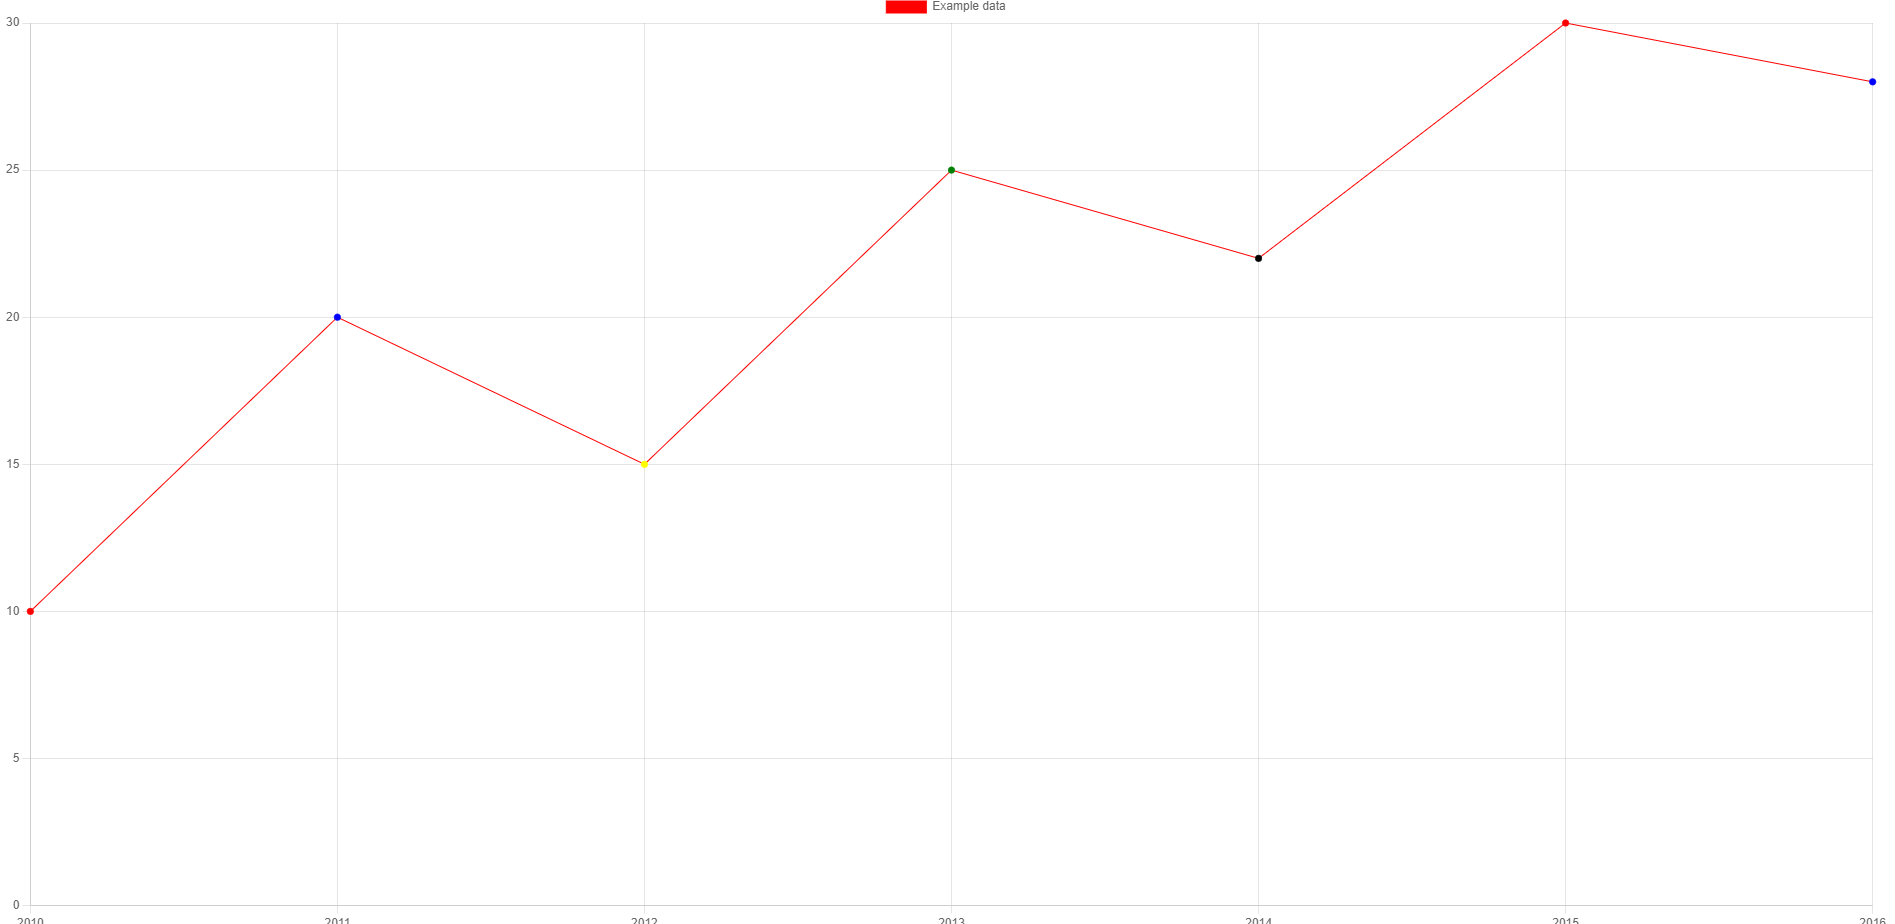
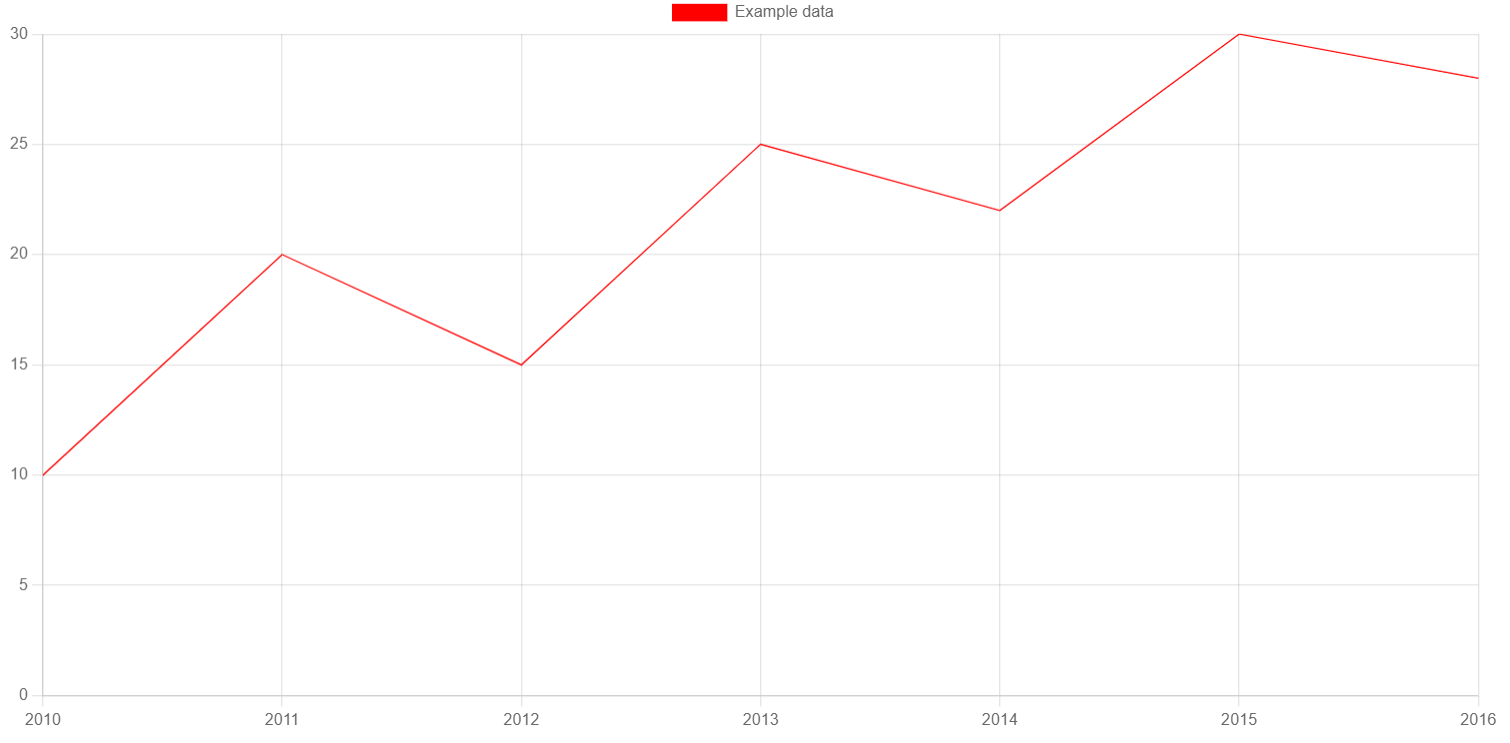
Add files via upload

diff --git a/Client/script.js b/Client/script.js
@@ -460,27 +460,14 @@ let timeDelay = 0;
 let repeatQuantity = 0;
 function movePlayableNotes(staffNumber,notePressed,octave){
     if(toggle){
-        if(a<1000){
-            a++;
-        }
-        if(a>20 && a<1000){
-            var thisloop = performance.now();
-            var fps = Math.round(1000/(thisloop-lastloop));
-            averageFPS = averageFPS+fps;
-            lastloop = thisloop;
-        }
-        if(a>100){
-            if(toggle){
-                timeDelay = (window.innerWidth-(leftBoundary-(0.5*staffSpacing))/(averageFPS/a)*1000)/DynamicDifficulty[difficultyLevel].speed;
-            }
-            else{
-                timeDelay = 0;
-            }
-            ctx.fillStyle = "white";
-            ctx.fillRect(leftBoundary,0,canvas.width,staffHeight);
-            staffNoteHit(staffNumber,notePressed,octave);
-            drawStaff();
-        }
+        a++
+        averageFPS = (61214/1000)+513;
+        timeDelay = (DynamicDifficulty[difficultyLevel].recurringNotes)*(window.innerWidth-(leftBoundary-(0.5*staffSpacing))/(averageFPS)*100)/DynamicDifficulty[difficultyLevel].speed;
+      
+        ctx.fillStyle = "white";
+        ctx.fillRect(leftBoundary,0,canvas.width,staffHeight);
+        staffNoteHit(staffNumber,notePressed,octave);
+        drawStaff();    
         // updates x and y values and then displays them whilst removing the old values from visibility
 
         switch(DynamicDifficulty[difficultyLevel].recurringNotes){
@@ -488,16 +475,16 @@ function movePlayableNotes(staffNumber,notePressed,octave){
                 animating_Notes1.update();
                 animating_Notes1.display();
                 setTimeout((s) => animating_Notes5.update(), 4*timeDelay);
-                animating_Notes5.display();
+                animating_Notes5.display()
                 break;
             case 4:
                 animating_Notes1.update();
                 animating_Notes1.display();
                 setTimeout((s) => animating_Notes3.update(), 2*timeDelay);
                 animating_Notes3.display();
-                setTimeout((s) => animating_Notes5.update(), 4*timeDelay);
+                setTimeout((s) => animating_Notes5.update(), timeDelay);
                 animating_Notes5.display();
-                setTimeout((s) => animating_Notes7.update(), 6*timeDelay);
+                setTimeout((s) => animating_Notes7.update(), 3*timeDelay);
                 animating_Notes7.display();
                 break;
             case 8:

diff --git a/Client/arrangeData.js b/Client/arrangeData.js
@@ -53,14 +53,17 @@ function retrieveNoteCodes(individualNotes){
     }
 }
 
+let totalLength = 0;
 let playPeriodNotes = [];
 function retrievePlaytimePeriods(allData){
     for(let storageLength = 0; storageLength < localStorage.length; storageLength++){
+        totalLength = 0;
         if(allData[storageLength] != null){
             playPeriodNotes[storageLength] = {};
             for(let levelNumber = 1; levelNumber <= Object.keys(allData[storageLength]).length; levelNumber++){
                 for(let noteNumber = 1; noteNumber < Object.keys(allData[storageLength][levelNumber].userNoteProgression).length+1; noteNumber++){
-                        playPeriodNotes[storageLength][noteNumber] = allData[storageLength][levelNumber].userNoteProgression[noteNumber];
+                    totalLength ++;
+                    playPeriodNotes[storageLength][totalLength] = allData[storageLength][levelNumber].userNoteProgression[noteNumber];
                 }
             }
         }
@@ -97,3 +100,10 @@ function retrieveNoteCodesFromPeriods(playPeriodNotes){
         playPeriodCodes[numberOfPeriods] = [numOfCorrectHits,numOfWrongHits,numOfWrongNumberHits,numOfOutOfBoundHits,numOfMissedNotes];
     }
 }
+
+console.log("allData")
+console.log(allData)
+console.log("playPeriodNotes")
+console.log(playPeriodNotes)
+console.log("playPeriodCodes")
+console.log(playPeriodCodes)

diff --git a/Client/dataAnalysis.js b/Client/dataAnalysis.js
@@ -8,8 +8,6 @@ window.onload = function(){
   }
   retrieveIndividualNotes(allData);
   retrievePlaytimePeriods(allData);
-
-  console.log(allData);
 };
 
 // Define canvas for graph display with predefined data variables
@@ -55,6 +53,11 @@ const config = {
   type: 'line',
   data,
   options: {
+    elements:{
+      point:{
+        radius: 0
+      }
+    },
     scales: {
       y: {
         beginAtZero: true,

diff --git a/Documentation.md b/Documentation.md
@@ -371,7 +371,7 @@ This is demonstrated in the following flow diagram in Figure 9:
 
 ##### Milestone 1 - Implementation
 
-To create this project automated testing needed to be implemented to help keep my scripts concise and ensure I conform to standard coding practices. I used gulp.js to do this by testing my JS, HTML5 and CSS scripts. To do this I needed to install the packages required, run vs code in administrator, and simply enter 'Set-ExecutionPolicy RemoteSigned' before entering'gulp' into the terminal that is in the same directory as my HTML55, CSS, and JS files (mdn Web Docs, 2023). This can be seen as follows:
+To create this project automated testing needed to be implemented to help keep my scripts concise and ensure I conform to standard coding practices. I used gulp.js to do this by testing my JS, HTML5 and CSS scripts. To do this I needed to install the packages required, such as node and gulp, run vs code in administrator, and simply enter 'Set-ExecutionPolicy RemoteSigned' before entering'gulp' into the terminal that is in the same directory as my HTML55, CSS, and JS files (mdn Web Docs, 2023). This can be seen as follows:
 
 ```JavaScript
 const gulp = require('gulp');
@@ -1282,6 +1282,33 @@ In order to create an application that is widely understandble, clear instructio
 - On creation of an account a tutorial is presented automatically
 - A button must be clicked on order to provide a tutorial
 
+When demonstrating the project to my stakeholder, she was extremely impressed with how far this project has come overall. She had numerous helpful points for further development and things she feels should have been implemented such as the following:
+
+- Tell the user when the level changes up or down
+- Teach users how to play with helpful finger hints demonstrating how to navigate around the keyboard
+- Change the colours used for when pressing a key, instead of red for majors and blue for sharps, change it to indicate whether the user has pressed the correct key at the correct time. For example, green for pressing correct and red for incorrect
+- Change the image of notes such as (seen in Figure 27)
+  - Sharp notes used to coincide with enharmonic spellings
+  - Expressing chords using a triad
+- Allow the user to pick and choose the sound created, for example allowing the choice between numerous instruments such as:
+  - Synthesized sounds
+  - Piano sounds
+  - Guitar sounds
+  - Drum sounds
+  - Harmonica sounds
+- Reduce the length of some levels, levels 5 and 6 are too long
+- Add names of chords and single notes above staff that move along in animation (Figure 27)
+- Names of elements used in 'Note Traits Overall' and 'Note Traits Over Time' charts are not explanatory enough. These could be changed as the following:
+  - "Number of Correct Hits" to "Correct Note at Correct Time"
+  - "Number of Wrong Hits" to "Incorrect note at Correct Time"
+  - "Number of Wrong Number Hits" to "Incorrect Number of Notes Played"
+  - "Number of Out of Bound Hits" to "Correct Note at Incorrect Time"
+  - "Number of Missed Notes" to "No Note Played"
+
+**Figure 27: Note Depictions from Stakeholder**
+
+![Note Depictions from Stakeholder](/images/NoteDepictions.jpg)
+
 #### Technical Evaluation
 
 This project used a variety of technologies, all of which I deem appropriate for this project. The bulk of the project is written in JS due to the nature of the project being dependant on MIDI input, which is enabled on particular browsers making it accessible for users that may not be technologically minded, therefore making it a web application seemed like the most logical step.
@@ -1353,37 +1380,35 @@ Restructuring the project, increasing the number of stakeholder demonstrations a
 
 The following images are the final prototype product delivered to the stakeholder:
 
-Opening Page of Application
-
-**Figure 27: Opening Page of Application**
+**Figure 28: Opening Page of Application**
 
 ![Opening Page of Application](/images/final.1.png)
 
-**Figure 28: Blocking MIDI Access**
+**Figure 29: Blocking MIDI Access**
 
 ![Blocking MIDI Access](/images/final.2.png)
 
-**Figure 29: Level 1**
+**Figure 30: Level 1**
 
 ![First Level](/images/final.3.png)
 
-**Figure 30: Level 4**
+**Figure 31: Level 4**
 
 ![Fourth Level](/images/final.4.png)
 
-**Figure 31: Opening of Graph Page**
+**Figure 32: Opening of Graph Page**
 
 ![Opening of Graph Page](/images/final.5.png)
 
-**Figure 32: Actual Vs Expected Hit Times**
+**Figure 33: Actual Vs Expected Hit Times**
 
 ![Actual Vs Expected Hit Times](/images/final.6.png)
 
-**Figure 33: Note Traits Overall**
+**Figure 34: Note Traits Overall**
 
 ![Note Traits Overall](/images/final.7.png)
 
-**Figure 34: Note Traits Over Time**
+**Figure 35: Note Traits Over Time**
 
 ![Note Traits Over Time](/images/final.8.png)
 
